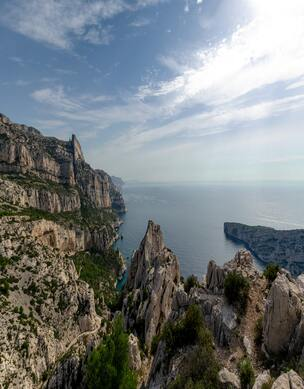
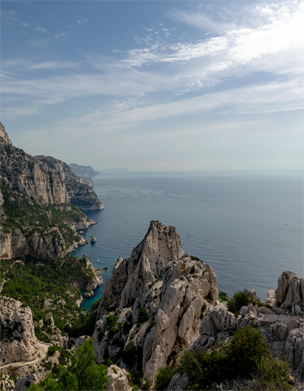
images redimensionées

diff --git a/Projet 2/index.html b/Projet 2/index.html
@@ -231,7 +231,8 @@
 
 										<a href="page2.html">
 											<div class="box">
-												<p><img class="photoactivites" src="images/activites/port.JPG" alt="Photo du Vieux Port"></p>
+												<p><img class="photoactivites grand" src="images/activites/port.JPG" alt="Photo du Vieux Port"></p>
+												<p><img class="photoactivites petit" src="images/activitessmartphone/port.JPG" alt="Photo du Vieux Port"></p>
 												<h3>Vieux Port</h3>
 											</div>
 										</a>
@@ -258,7 +259,8 @@
 
 										<a href="page2.html">
 											<div class="box">
-												<p><img class="photoactivites" src="images/activites/calanques.JPG" alt="Photo des Calanques"></p>
+												<p><img class="photoactivites grand" src="images/activites/calanques.JPG" alt="Photo des Calanques"></p>
+												<p><img class="photoactivites petit" src="images/activitessmartphone/calanques.JPG" alt="Photo des Calanques"></p>
 												<h3>Parc National des Calanques</h3>
 											</div>
 										</a>

diff --git a/Projet 2/css/section3.css b/Projet 2/css/section3.css
@@ -1,5 +1,8 @@
 
 /* Activites a Marseille */
+.petit{
+	display: none;
+}
 #margetop{
 	margin-top: 53px;
 }
@@ -54,5 +57,11 @@
 	}
 	#activites .box{
 		margin-bottom: 20px;
+	}
+	.grand{
+		display: none;
+	}
+	.petit{
+		display:flex;
 	}
 }
